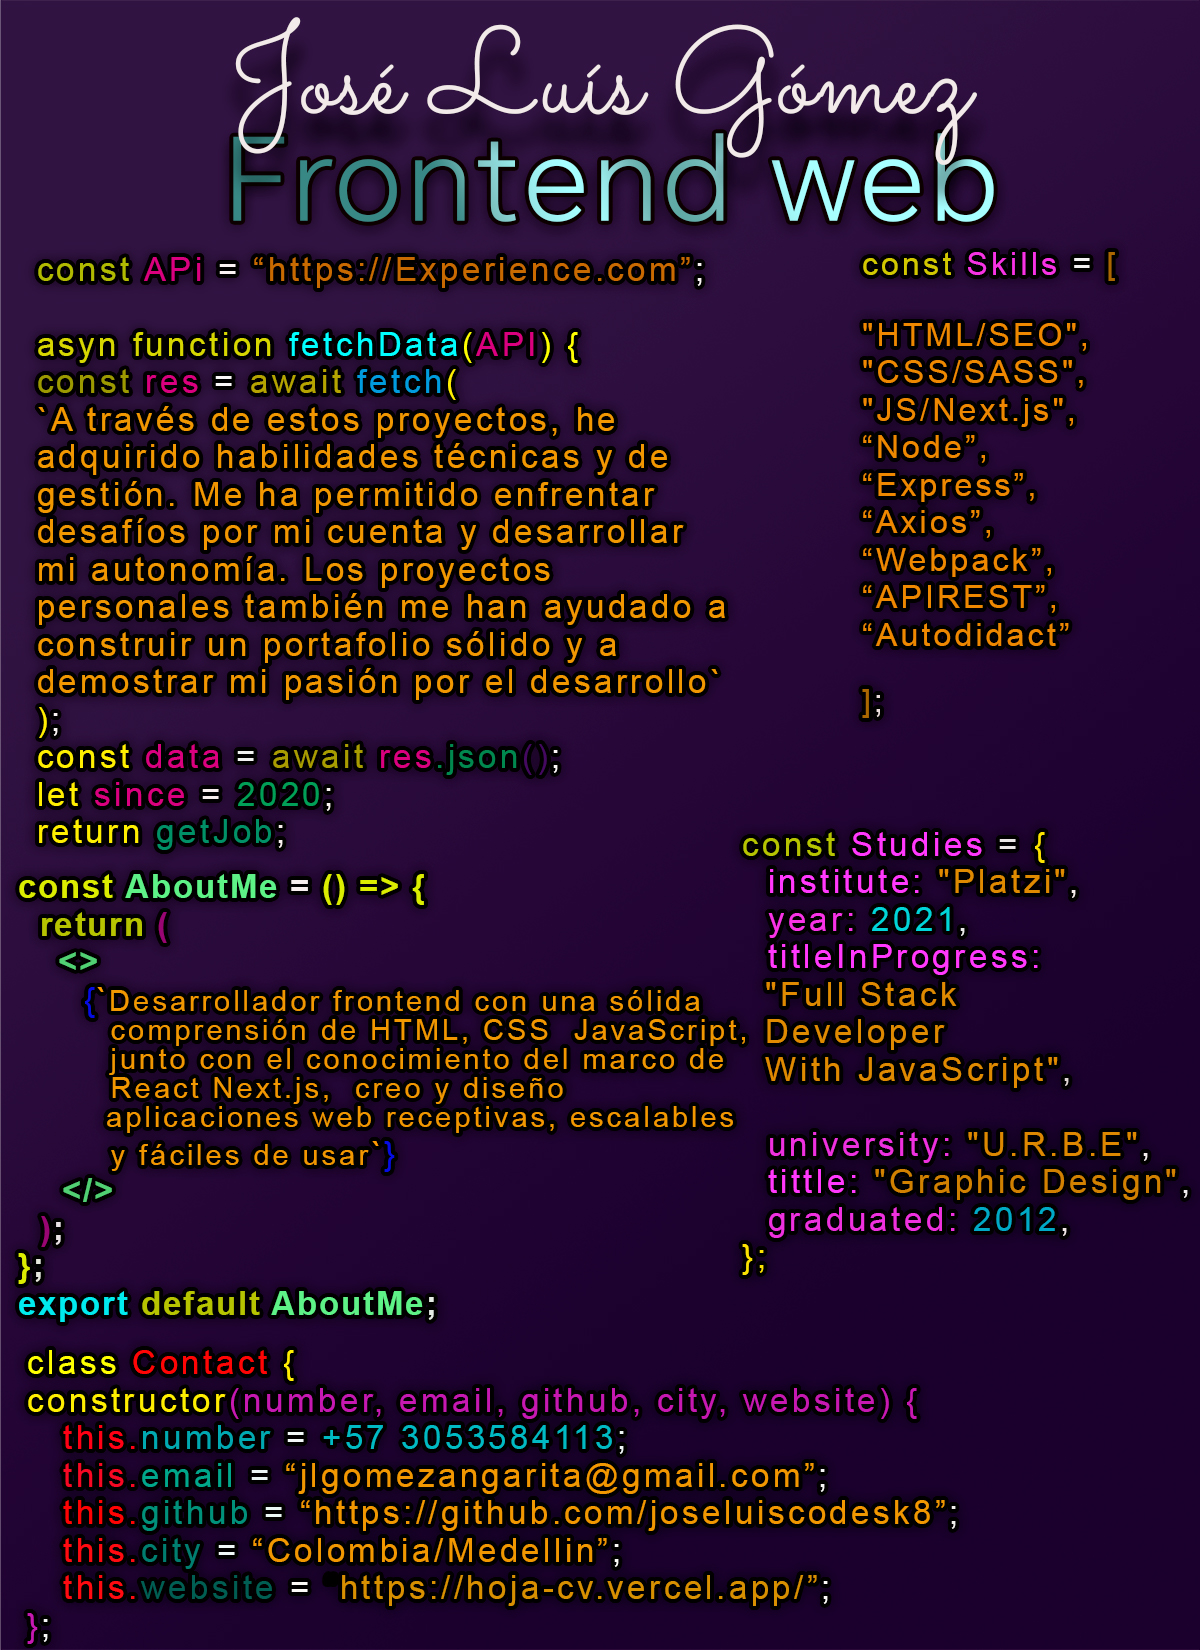
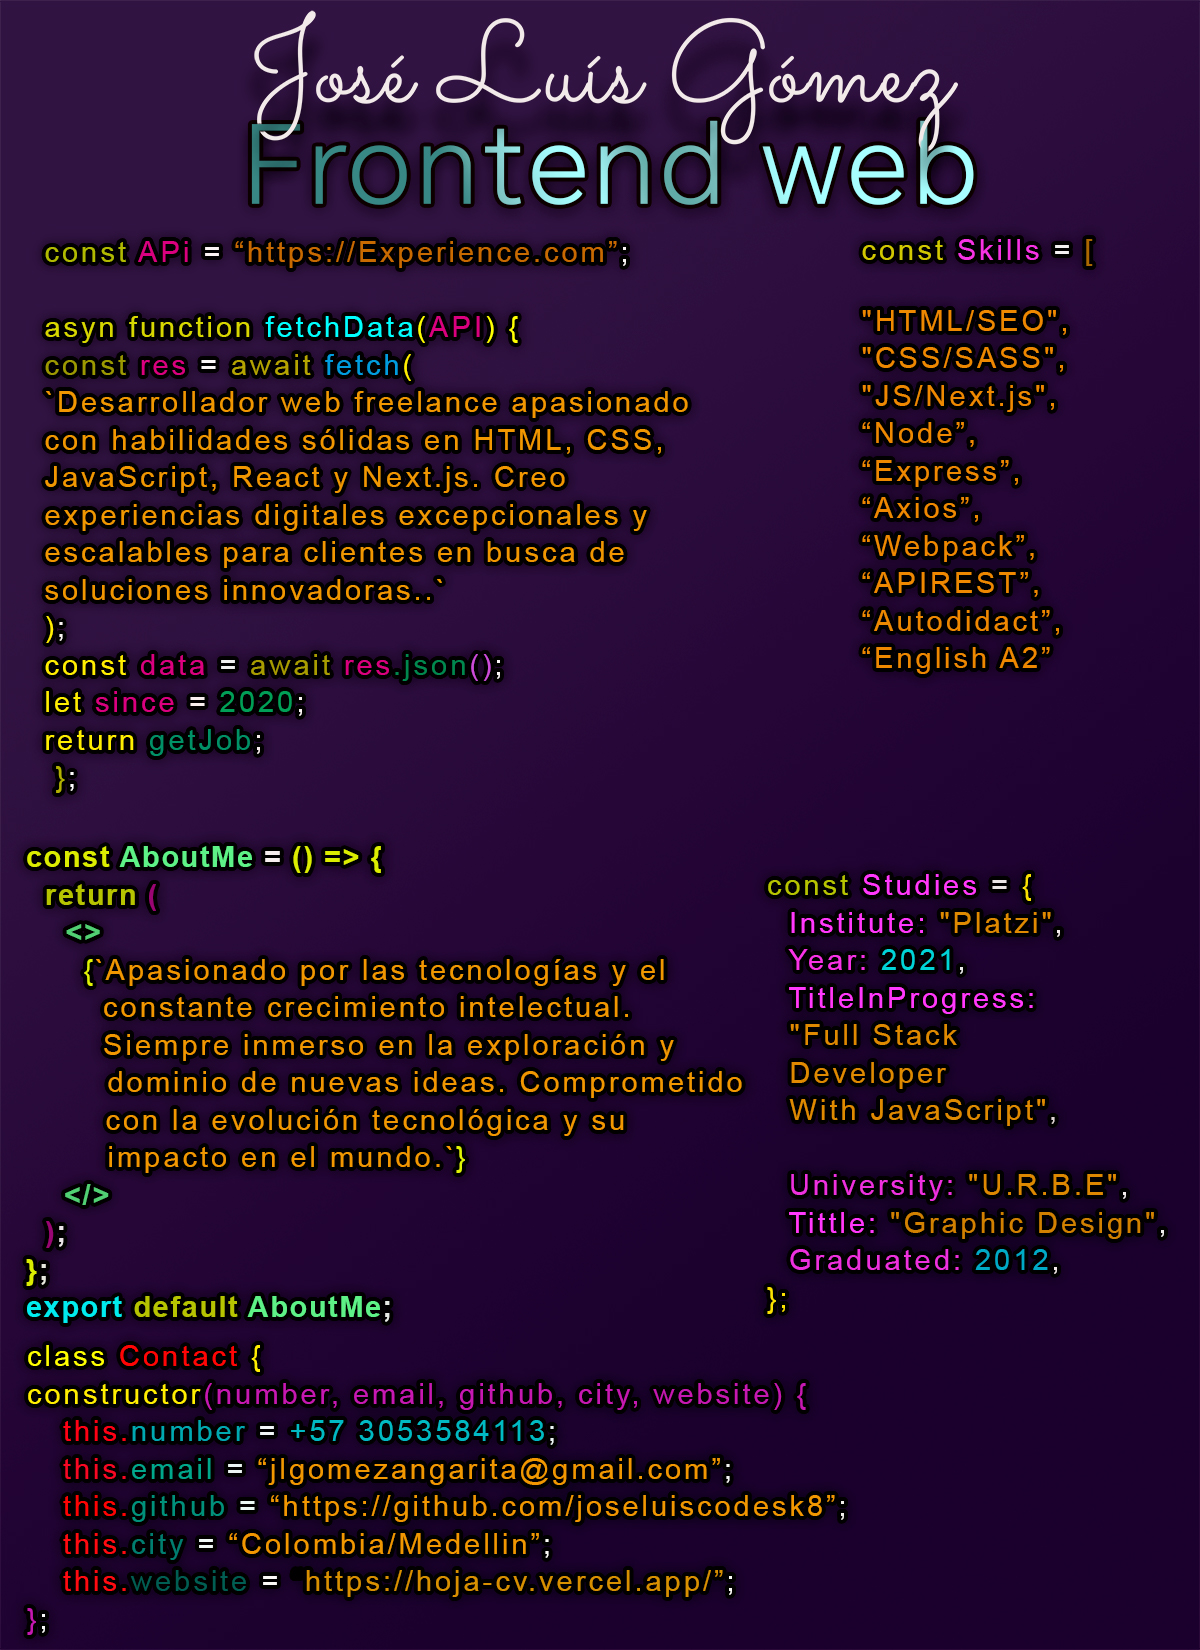
otherMore

diff --git a/src/component/Experience.jsx b/src/component/Experience.jsx
@@ -37,7 +37,9 @@ const Experience = () => {
       <section className={styles.Experiencia}>
         <h2>Experiencia</h2>
         <p>
-        Desarrollador frontend con profundos conocimientos en HTML, CSS y JavaScript, respaldados por una experiencia fluida en el marco React, Next.js. Diseño y desarrollo de aplicaciones web receptivas, escalables y altamente intuitivas para garantizar experiencias de usuario excepcionales.
+          Desarrollador web freelance apasionado conhabilidades sólidas en HTML,CSS,
+          JavaScript,React y Next.js. Creo experiencias digitales excepciona lesy
+          escalables para clientes en busca de soluciones innovadoras..`
         </p>
       </section>
     </>
